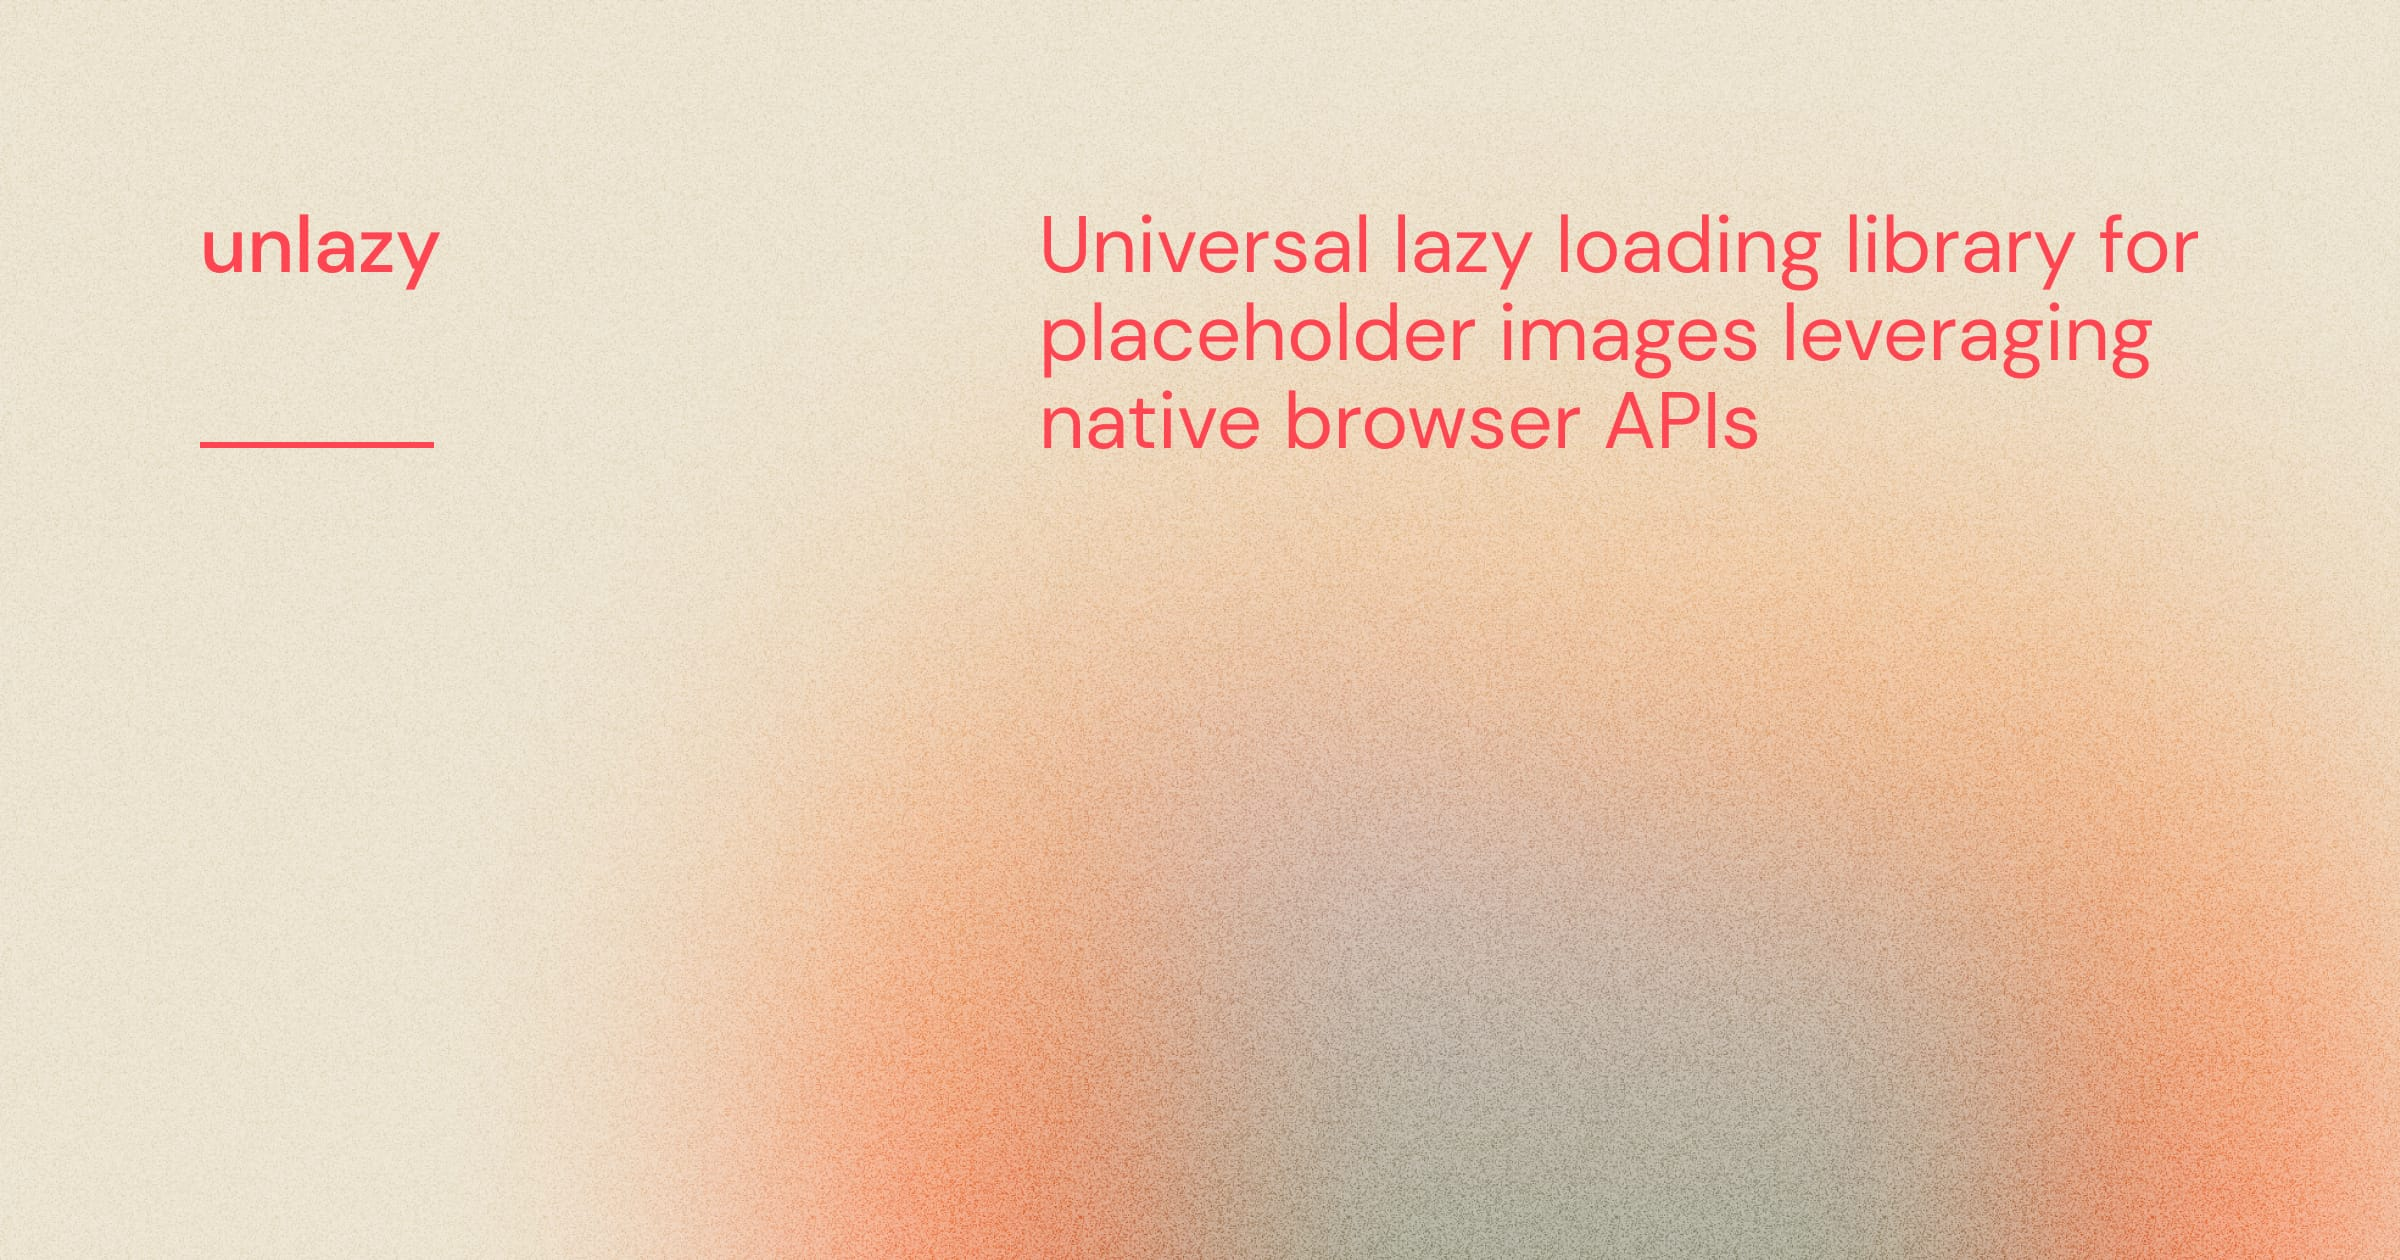
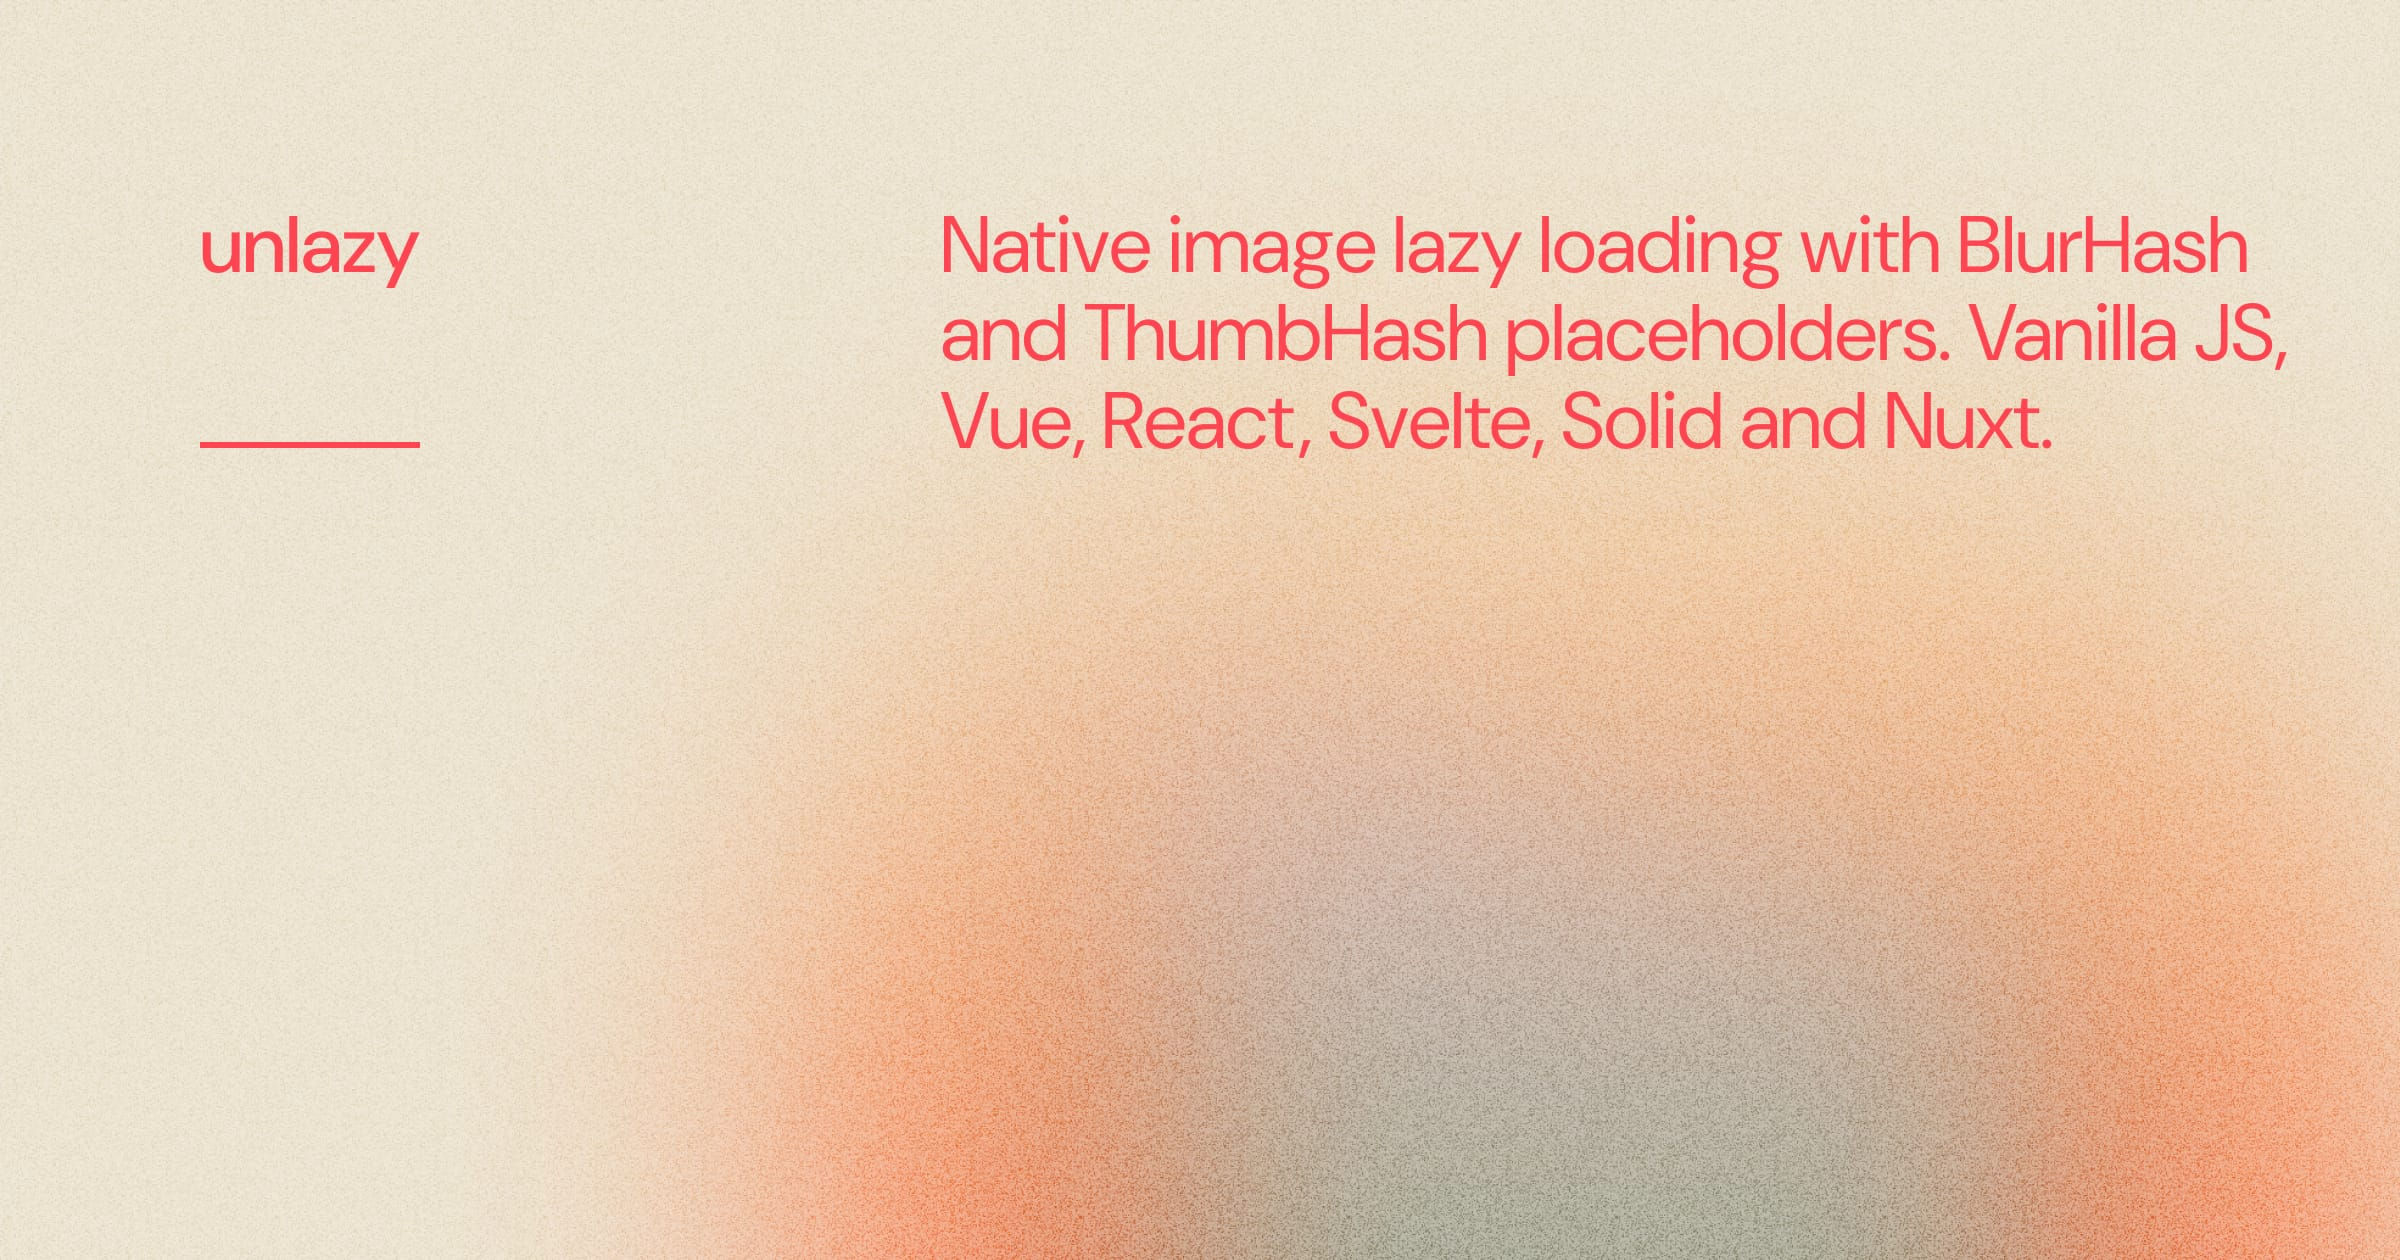
docs: update the social preview images to the new description

Changed region(s): [[0.375, 0.1548, 0.9688, 0.3714], [0.0938, 0.1548, 0.1875, 0.2476]]

diff --git a/README.md b/README.md
@@ -1,4 +1,4 @@
-[![unlazy library](./.github/og.jpg)](https://unlazy.byjohann.dev)
+[![unlazy library](./docs/public/og.jpg)](https://unlazy.byjohann.dev)
 
 # unlazy
 
